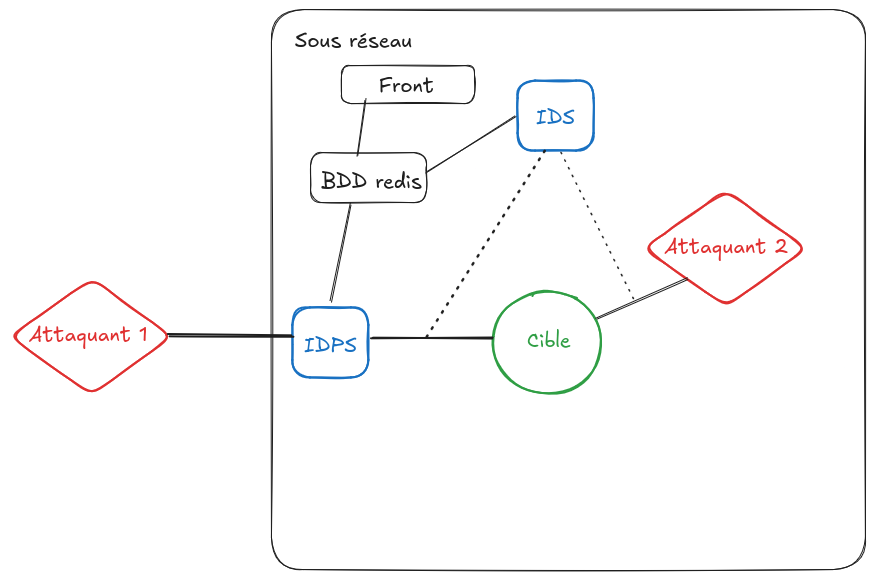
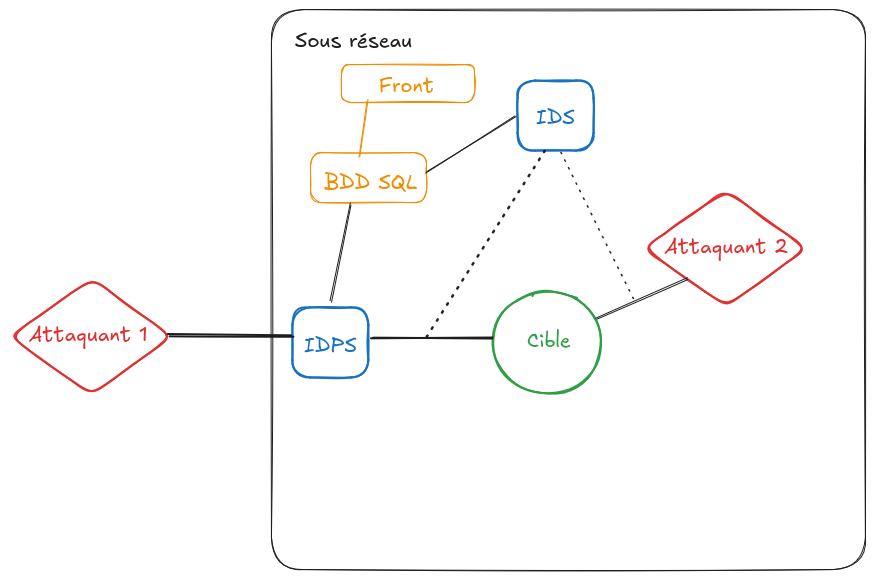
fix: redis -> mysql

Changed region(s): [[0.339, 0.0931, 0.5548, 0.3724]]

diff --git a/README.md b/README.md
@@ -26,7 +26,7 @@ La base de données SQL est structurée de la façon suivante:
 
 Un script python `tests/cef-generator.py` permet de générer des alertes CEF dans la base de données SQL.  
 Ce script peut être utile pour le développement d'interface d'affichage des alertes. Pour l'utiliser il faut une base de donnée sql, et mettre les identifiants dans le script.  
-De plus, ce script à besoin de la librairie `sql` pour pouvoir ajouter / faire des requêtes à la base de données Redis.  
+De plus, ce script à besoin de la librairie `sql` pour pouvoir ajouter / faire des requêtes à la base de données MySQL.  
   
 Pour cela, utiliser les commandes suivantes:  
 
@@ -56,4 +56,4 @@ Cette démonstration peut être déployer facilement grâce à un docker-compose
 
 - Noyau d'analyse de l'IDS  
 - Interface web pour visualiser les alertes / rechercher dedans  
-- Moteur de corrélation des alertes (récupération + renvoi dans Redis). 
+- Moteur de corrélation des alertes (récupération + renvoi dans MySQL). 
